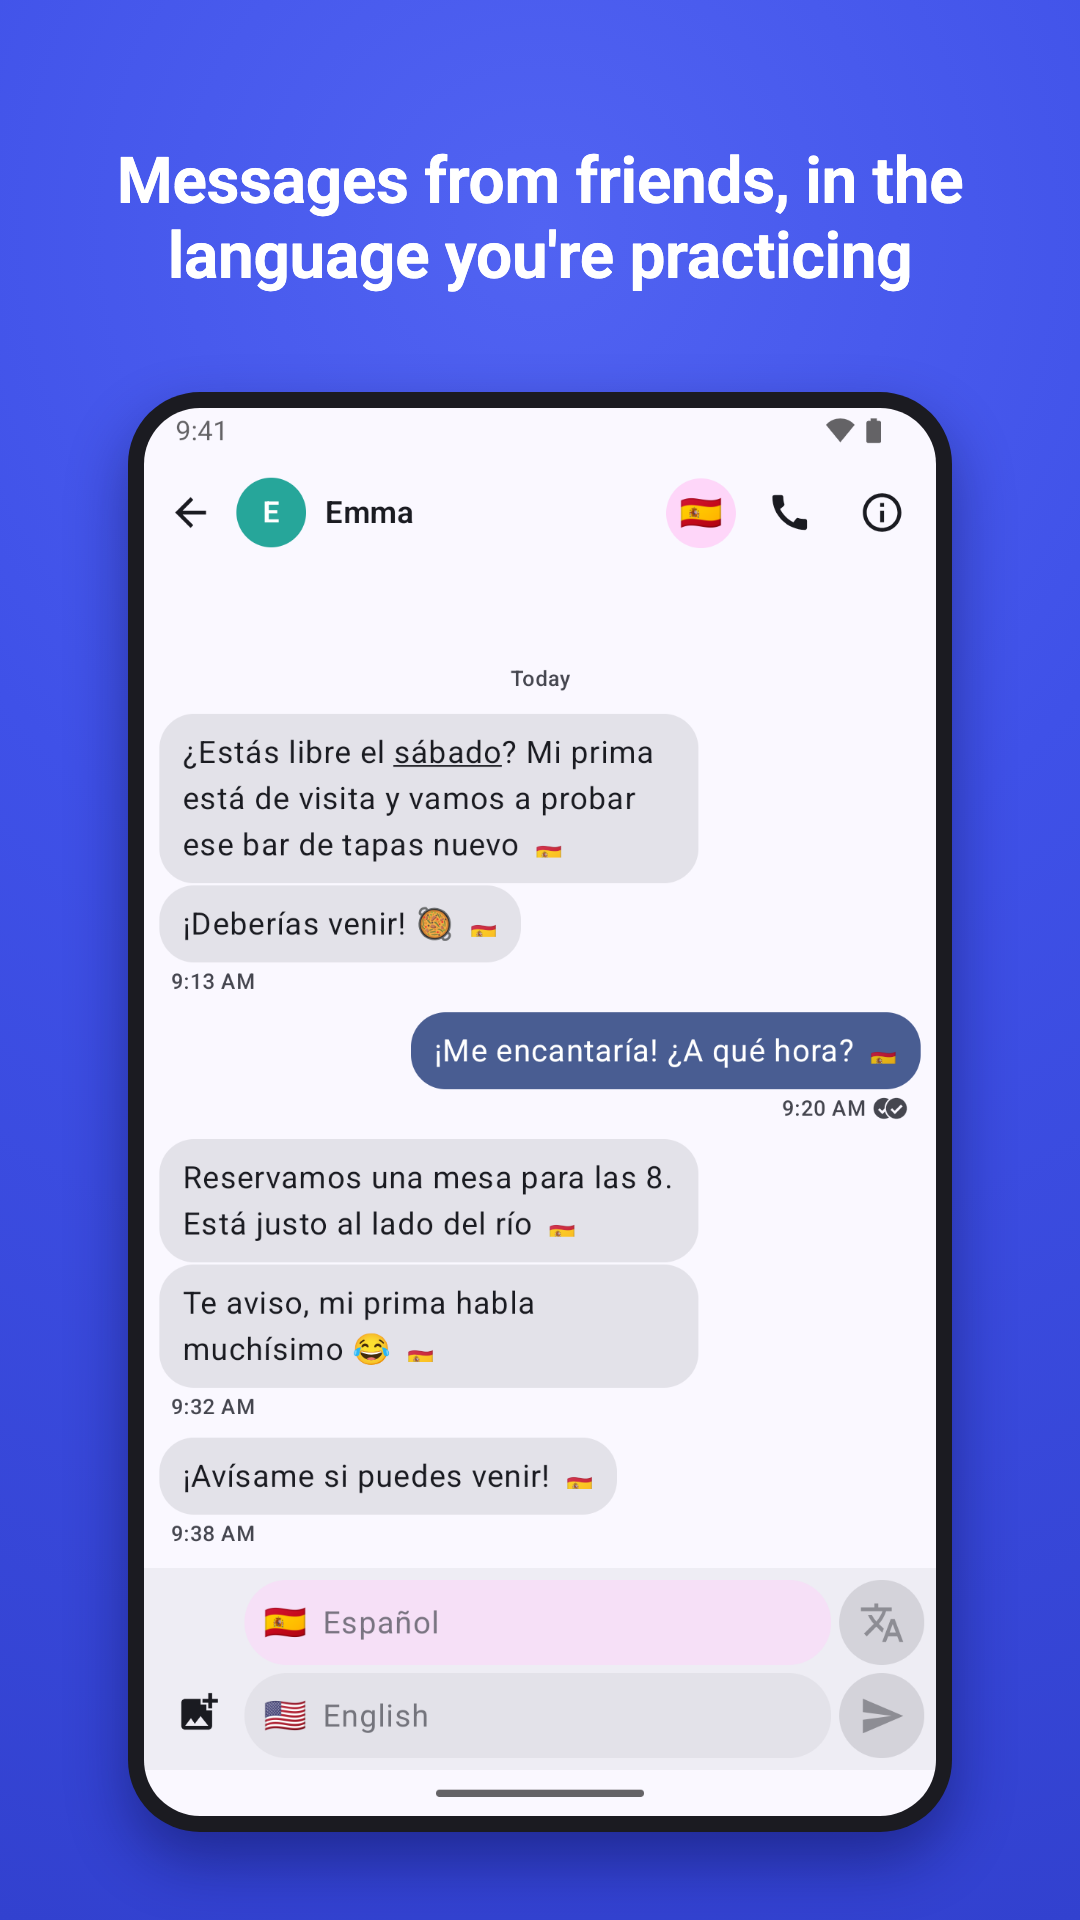
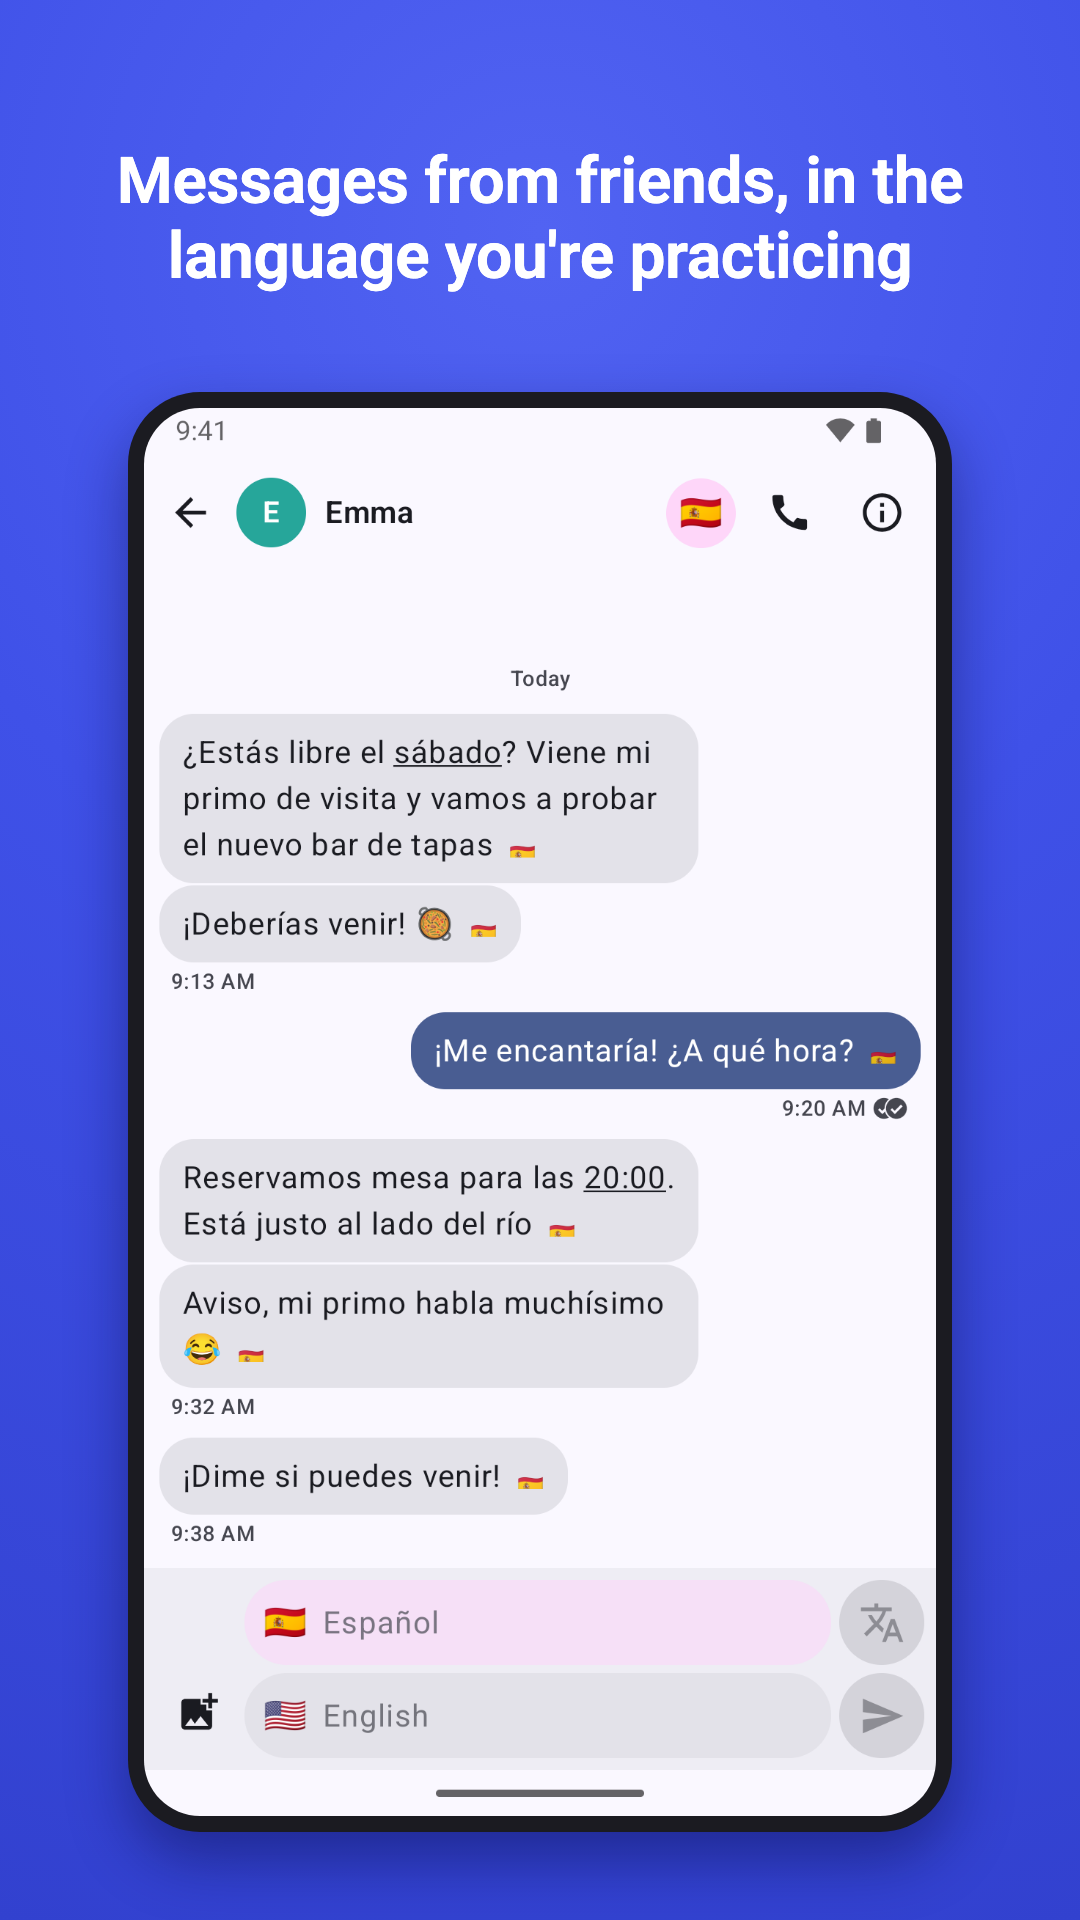
Store graphics: real AI output, inbox shot 7, new feature line
Retake every screenshot that shows AI output with real output from the
managed model (google/gemma-4-31b-it, effort Auto) instead of hand-written
text. Shot 6 is the light theme only. Shot 7 is the inbox, with the caption
"Practice in the chats you already have". The feature graphic's line is now
"Practice any language while texting your friends".

diff --git a/docs/launch/store-assets/README.md b/docs/launch/store-assets/README.md
@@ -1,17 +1,17 @@
 # Google Play store graphics
 
-Made on 2026-11-20 for the Main store listing (`../store-listing.md`, Graphics and Screenshot captions). Every file's size, format and dimensions were checked by script.
+Made on 2026-11-20 for the Main store listing (`../store-listing.md`, Graphics and Screenshot captions), and retaken the same day with real AI output. Every file's size, format and dimensions were checked by script.
 
 ## Files
 
 | File | Size | Format | What it is |
 | --- | --- | --- | --- |
-| `icon-512.png` | 512 × 512 | PNG, 32-bit (RGBA, opaque), 13 KB | App icon: the adaptive launcher icon's middle 72 dp (what launchers show) as a full square. Play adds the rounded mask and shadow. |
-| `feature-graphic-1024x500.png` | 1024 × 500 | PNG, RGB (no alpha), 183 KB | The icon, "Transmit" and "Learn a language by texting" in the middle, with Spanish and English chat bubbles at the edges. |
-| `screenshots/captioned/*.png` | 1080 × 1920 | PNG, RGB, 330–475 KB each | The screenshots on the brand colour, in a phone frame, with the caption above. **Upload these.** |
-| `screenshots/raw/*.png` | 1080 × 1920 | PNG, RGB, 70–190 KB each | The same screens as captured, without frame or caption. |
+| `icon-512.png` | 512 × 512 | PNG, 32-bit (RGBA, opaque), 13 KB | App icon: the adaptive launcher icon's middle 72 dp (what launchers show) as a full square. Play adds the rounded mask and shadow. Unchanged in the retake. |
+| `feature-graphic-1024x500.png` | 1024 × 500 | PNG, RGB (no alpha), 188 KB | The icon, "Transmit" and "Practice any language while texting your friends" in the middle, with Spanish and English chat bubbles at the edges. The right-hand bubbles sit a little higher than before, to clear the longer line. |
+| `screenshots/captioned/*.png` | 1080 × 1920 | PNG, RGB, 389–514 KB each | The screenshots on the brand colour, in a phone frame, with the caption above. **Upload these.** |
+| `screenshots/raw/*.png` | 1080 × 1920 | PNG, RGB, 145–212 KB each | The same screens as captured, without frame or caption. |
 
-Brand colours: `#3F51E8` (`ic_bg`, the icon's background), with a lighter `#5163F2` and darker `#3241CF` for the gradient. Text is Roboto.
+Brand colours: `#3F51E8` (`ic_bg`, the icon's background), with a lighter `#5163F2` and darker `#3241CF` for the gradient. Text is Roboto. Captions break into two balanced lines.
 
 ## Screenshots, in upload order
 
@@ -20,32 +20,41 @@ Brand colours: `#3F51E8` (`ic_bg`, the icon's background), with a lighter `#5163
 | 1 | `01-translated-chat.png` | A chat with Emma, her texts shown in Spanish | Messages from friends, in the language you're practicing |
 | 2 | `02-original.png` | The same chat, one bubble tapped to show the English original | Tap any message to see the original |
 | 3 | `03-reply.png` | The composer: Spanish typed, the English that Emma gets prepared, ready to send | Reply in your practice language. They get it in yours. |
-| 4 | `04-check.png` | Check my translation: the correction as a diff, a more natural version and notes | Check my translation: corrections and a natural version |
-| 5 | `05-explain.png` | The Explain sheet for "Te aviso, mi prima habla muchísimo 😂" | Explain: grammar, idioms and slang, phrase by phrase |
-| 6 | `06-romaji-dark.png` | A Japanese chat with Yuki, romaji under the characters, dark theme | Pinyin and romaji, the way you like to read |
-| 7 | `07-connect.png` | Onboarding step 2, "Connect your messages" | Works with Google Messages on your phone |
-| (6) | `06-romaji-light.png` | Shot 6 in the light theme, if you'd rather not have a dark one | Pinyin and romaji, the way you like to read |
+| 4 | `04-check.png` | Check my translation: the correction as a diff, a more natural version and a note | Check my translation: corrections and a natural version |
+| 5 | `05-explain.png` | The Explain sheet for "Aviso, mi primo habla muchísimo 😂" | Explain: grammar, idioms and slang, phrase by phrase |
+| 6 | `06-romaji.png` | A Japanese chat with Yuki, romaji under the characters, light theme | Pinyin and romaji, the way you like to read |
+| 7 | `07-inbox.png` | The inbox: seven chats with made-up contacts, in Spanish and Japanese | Practice in the chats you already have |
 
-- **Caption 8 ("Start with a free week. No card needed.") was dropped:** it's promotional.
-- Upload seven: 1 to 7, with either version of 6.
+- Upload all seven, in this order.
+- Caption 7 is new (38 characters) and replaces "Works with Google Messages on your phone", which went with the onboarding shot.
+- Caption 8 ("Start with a free week. No card needed.") stays dropped: it's promotional.
 
 ## How they were made
 
-- **Device:** the API 36 emulator, with a release build signed with the upload key, so no debug UI shows. The display was set to 1080 × 1920 (`wm size`), because its native 1080 × 2400 is longer than Play's 2:1 limit. The status bar uses SystemUI demo mode: 9:41, Wi-Fi and battery full, no notifications. The mobile signal was hidden, because demo mode on API 36 kept showing a "3G" label. The light theme is used throughout, apart from the dark shot 6.
-- **Content:** the reviewer demo's sample chats, with temporary local code that was reverted and never committed:
-  - fuller sample chats with Emma (Spanish) and a new Japanese chat with Yuki;
-  - the DEMO label, the demo bar and the demo banner hidden, and the call button shown, as in a real chat;
-  - AI access shown as a Transmit Plus subscriber, so no free-week or plan banners appear;
-  - canned AI answers (translations, romaji, Check my translation, Explain) written for the shots, so no AI provider, backend or Play call was made;
-  - every message in view translated on open, rather than only the newest four.
+- **Device:** the API 36 emulator, with a release build signed with the upload key, so no debug UI shows. The display was set to 1080 × 1920 (`wm size`), because its native 1080 × 2400 is longer than Play's 2:1 limit. The status bar uses SystemUI demo mode: 9:41, Wi-Fi and battery full, no notifications, no mobile signal. The clock was set to 9:41 so the message times fit. Light theme throughout.
+- **AI output is real.** Every translation, the romaji, the English prepared in shot 3, the Check my translation result and the Explain text came from `google/gemma-4-31b-it`, the managed model, at effort Auto. Nothing was written by hand or edited. The calls went through a temporary OpenRouter key ($0.25 limit, in the account's default workspace, not "Transmit Customers"), set as the app's own key with the managed settings: OpenRouter, that model for translation and tutoring, effort Auto, 8 messages of context. The key showed $0.0045 of use (OpenRouter books usage a few minutes late) and was deleted afterwards: a GET for it returns 404.
+- **Temporary code, reverted and never committed:**
+  - fuller sample chats: Emma (Spanish), a new Japanese chat with Yuki, and Leo and Nina for the inbox, besides the demo's group, Jake and Mom;
+  - the DEMO label, demo bar and demo banner hidden; the call button, search bar and Start chat button shown, as in a real inbox and chat;
+  - the own-key extras (costs, model names, budgets) hidden, so the screens look as a subscriber's do;
+  - every message in view translated on open (20 rather than the managed 4), as messages are when they arrive one by one;
+  - the practice-language text in shots 3 and 4 put in the composer by an intent, since adb can't type "¡" or accents. That text is what the user writes, not AI output.
+- **Sample messages changed after seeing the real output:**
+  - Emma's "We booked a table for 8" became "for 8pm": the model read it as a table for eight people ("Reservamos mesa para 8").
+  - Yuki's "Great! I know a good place near the station" became "Yay! I know a great place…": "Great!" came out as 「いいんじゃん！」, which reads oddly.
+  - The Spanish attempt checked in shot 4 ends with a full stop. Without one, the correction added it, and the diff struck out and re-inserted the whole last word ("~~primo~~primo.").
 - **Privacy:** made-up first names and initial avatars only. No phone numbers, photos or real conversations appear.
 - **Graphics:** headless Chrome rendered the icon from the launcher icon's vector paths, the feature graphic, and the captioned frames. Pillow checked and saved the PNGs. The scripts weren't committed; ask if you want them.
 
 ## For product to review
 
-1. **The icon and the impersonation rule.** `store-listing.md` says the icon mustn't look like the Google Messages icon ("no blue speech bubble"). It's two white speech bubbles on a blue square, and its 文 / A glyphs are close to the Material "translate" symbol that Google Translate's icon also uses. It is the app's real launcher icon, but decide whether it's distinct enough before launch.
-2. **The AI text in the shots was written by hand.** The UI is the real app, but the Spanish and Japanese translations, the romaji, the correction in shot 4 and the explanation in shot 5 are canned, not the managed model's output. Play wants screenshots to show the app accurately. Before you upload, run the same messages through a real free week and check that the output is comparable.
-3. **Shot 7 is sparse.** The lower half of the onboarding screen is empty. The button has a generic Material message glyph, not the Messages logo, and the caption names Google Messages only as what Transmit works with. You could swap it for an inbox shot, but that would need a new caption, which isn't in the approved list.
-4. **Dark or light shot 6.** The set uses the dark one, for variety.
-5. **Small UI nit seen in shot 4:** in the Check my translation diff, a deleted word runs straight into the inserted one ("~~para~~**de**" reads as "parade"). A space or gap between the deletion and the insertion would read better.
-6. The feature graphic's line, "Learn a language by texting", is the one `store-listing.md` suggested. The short description is now "Practice any language while texting your friends", so you could use a line closer to that.
+1. **The icon and the impersonation rule.** `store-listing.md` says the icon mustn't look like the Google Messages icon ("no blue speech bubble"). It's two white speech bubbles on a blue square, and its 文 / A glyphs are close to the Material "translate" symbol that Google Translate's icon also uses. It is the app's real launcher icon. A decision on it is pending.
+2. **Caption 7** is new wording, not from the earlier caption list.
+3. **The real output, as shown:**
+   - "Fair warning, my cousin talks a lot 😂" came out as "Aviso, mi primo habla muchísimo 😂". It's understandable, but "Te aviso" would be more usual. The Explain sheet itself says the one-word "Aviso" is common in texting.
+   - "Cousin" came out as *primo* (male), so the shots say *primo*, where the hand-written set said *prima*.
+   - The Madrid group says *departamento* for apartment, the Latin American word; Spain says *piso*.
+   - The Explain sheet calls *-ísimo* "the superlative" (strictly, the absolute superlative) and calls "Mi primo es muy hablador" "slangy", which it isn't really.
+4. **UI nits seen in shot 4:**
+   - In the Check my translation diff, a deleted word runs straight into the inserted one ("~~para~~**de**" reads as "parade"). A space or gap between them would read better.
+   - A punctuation-only change strikes out and re-inserts the whole word ("~~primo~~primo."). Diffing punctuation apart from the word would avoid it.

diff --git a/docs/launch/store-listing.md b/docs/launch/store-listing.md
@@ -134,8 +134,8 @@ Decided by the developer on 2026-11-19: Transmit is published from the existing 
 Made on 2026-11-20 and kept in [`store-assets/`](store-assets/README.md), which lists every file with its size and what to review.
 
 - **App icon:** [`store-assets/icon-512.png`](store-assets/icon-512.png), 512 × 512 32-bit PNG, rendered from the adaptive launcher icon (`ic_launcher_foreground` on `ic_bg`) as a full square; Play adds the mask and shadow. It must have no badges or "new" dots (the Metadata policy bans a "new message dot indicator when there are no new messages"). It mustn't look like the Google Messages icon (no blue speech bubble): the icon is two speech bubbles on blue, so this is on the review list in the README.
-- **Feature graphic:** [`store-assets/feature-graphic-1024x500.png`](store-assets/feature-graphic-1024x500.png), 1024 × 500 PNG without alpha: the icon, the name "Transmit", the line "Learn a language by texting", and chat bubbles in Spanish and English at the edges. The icon, name and line are in the middle, so a crop of the edges loses only the bubbles. No Google marks, no "free", no prices.
-- **Phone screenshots:** seven, 1080 × 1920 PNGs, in [`store-assets/screenshots/captioned/`](store-assets/screenshots/captioned/) (captions on the brand colour; upload these) and [`store-assets/screenshots/raw/`](store-assets/screenshots/raw/). They come from the reviewer demo's sample chats on the emulator, with made-up names and no numbers or photos.
+- **Feature graphic:** [`store-assets/feature-graphic-1024x500.png`](store-assets/feature-graphic-1024x500.png), 1024 × 500 PNG without alpha: the icon, the name "Transmit", the line "Practice any language while texting your friends" (the short description, since 2026-11-20), and chat bubbles in Spanish and English at the edges. The icon, name and line are in the middle, so a crop of the edges loses only the bubbles. No Google marks, no "free", no prices.
+- **Phone screenshots:** seven, 1080 × 1920 PNGs, in [`store-assets/screenshots/captioned/`](store-assets/screenshots/captioned/) (captions on the brand colour; upload these) and [`store-assets/screenshots/raw/`](store-assets/screenshots/raw/). They come from the reviewer demo's sample chats on the emulator, with made-up names and no numbers or photos. Since the 2026-11-20 retake, every translation, romanization, correction and explanation in them is real output of the managed model (`google/gemma-4-31b-it`, effort Auto), not text written for the shots.
 
 ## Screenshot captions
 
@@ -147,10 +147,10 @@ Made on 2026-11-20 and kept in [`store-assets/`](store-assets/README.md), which 
 | 4 | The Check my translation sheet with a diff | Check my translation: corrections and a natural version | 55 |
 | 5 | The Explain sheet | Explain: grammar, idioms and slang, phrase by phrase | 52 |
 | 6 | A Chinese or Japanese chat with pinyin or romaji under the characters | Pinyin and romaji, the way you like to read | 43 |
-| 7 | Onboarding step 2 ("Connect your messages") | Works with Google Messages on your phone | 40 |
+| 7 | The inbox (Home), with made-up contacts and a few chats | Practice in the chats you already have | 38 |
 | 8 | Onboarding step 3, or the Plans screen | Start with a free week. No card needed. | 39 |
 
-- Caption 7 names Google Messages factually. Keep the screenshot free of Google's logo and the Messages icon.
+- Caption 7 was "Works with Google Messages on your phone" (40), over onboarding step 2, until 2026-11-20. That screen was half empty, so product swapped it for the inbox and a caption that names no brand. Keep every screenshot free of Google's logo and the Messages icon.
 - Caption 8 is promotional. Play's price and promotion ban names the title, icon and developer name, not screenshots, but drop this one if a reviewer objects. **It was dropped from the 2026-11-20 set**, which uses captions 1 to 7.
-- Files: caption *n* is `store-assets/screenshots/captioned/0n-*.png`. Caption 6 has a dark version (`06-romaji-dark.png`, the one in the set) and a light one (`06-romaji-light.png`).
+- Files: caption *n* is `store-assets/screenshots/captioned/0n-*.png`. Caption 6 is the light theme only (`06-romaji.png`); the dark version was dropped on 2026-11-20.
 - Screenshots of the Plans screen will show the prices of the account they were taken on.
